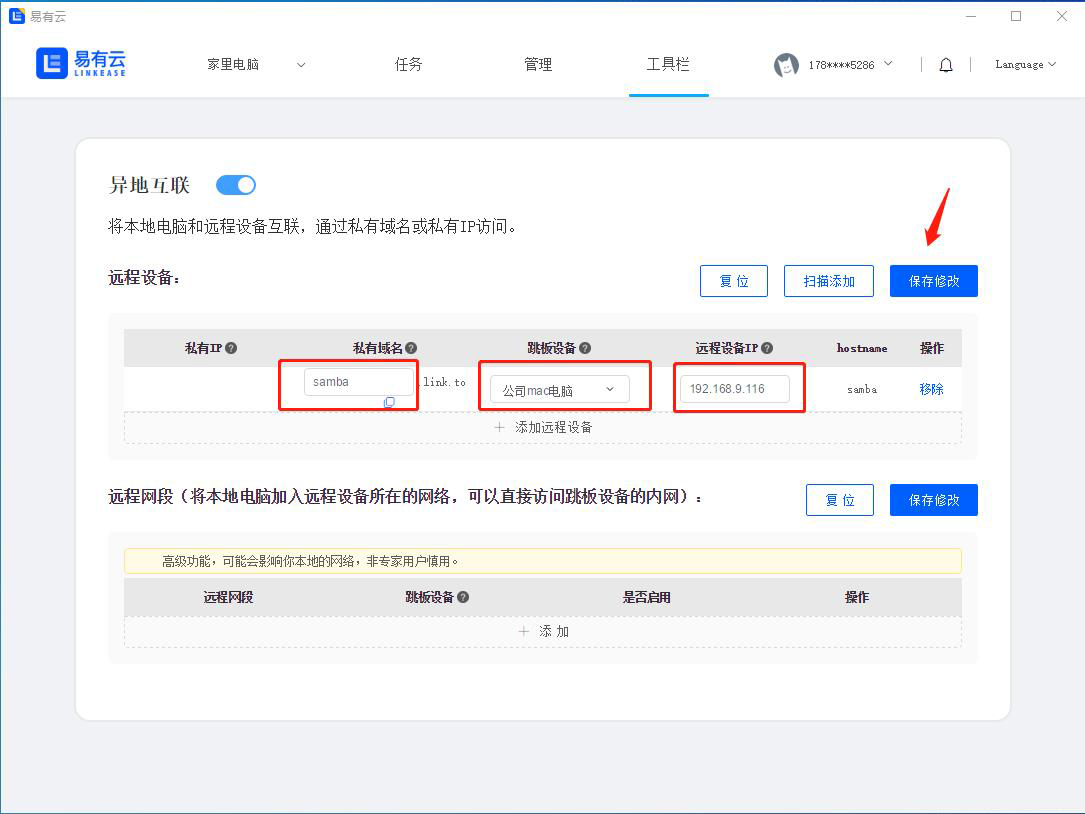
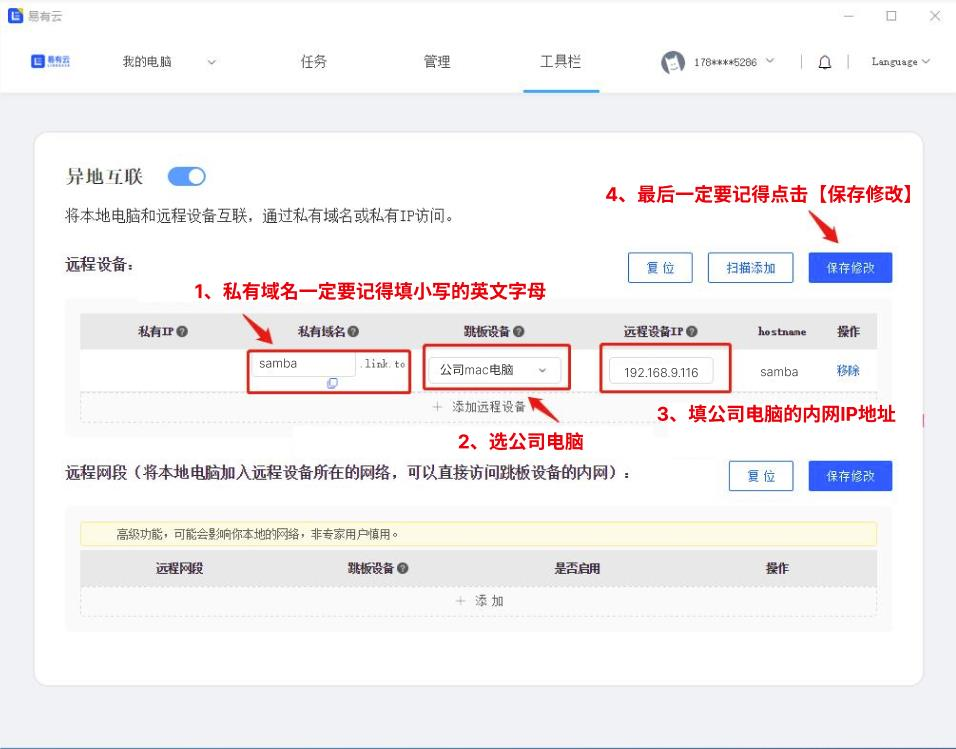
commit all

diff --git a/docs/zh/guide/linkease/tips/mount.md b/docs/zh/guide/linkease/tips/mount.md
@@ -8,44 +8,46 @@
 我们来看看具体是怎么实现的吧！  
 
 ### 第一步：公司电脑挂载的硬盘开启文件共享
-- 在硬盘目录下，选中你想要共享的文件，点击右键 —— 设置 —— 共享
+- 在硬盘目录下，选中你想要共享的文件，点击右键 —— 设置 —— 共享。
 
 ![image](./image/mount/11.jpg)
 
 ### 第二步：安装易有云
--  安装易有云电脑客户端，公司电脑要[开启网盘](/zh/guide/linkease/install/device/windows.md)，并且易有云是运行的状态
-- 家里电脑和公司电脑易有云客户端要登录同一易有云账号
+-  安装易有云电脑客户端，公司电脑要[开启网盘](/zh/guide/linkease/install/device/windows.md)，并且易有云是运行的状态；
+- 家里电脑和公司电脑易有云客户端要登录同一易有云账号。
 
 ### 第三步：开启异地互联
-- 打开家里电脑易有云客户端，开启[异地互联](/zh/guide/linkease/function/remote_connects.md)
-- 点击【添加远程设备】
+- 打开家里电脑易有云客户端，开启[异地互联](/zh/guide/linkease/function/remote_connects.md)；
+- 点击【添加远程设备】。
 
 ![image](./image/mount/21.jpg)
 
-- 私有域名：可以自己随意填（最好填英文名）
-- 跳板设备：选公司电脑
-- 远程设备IP：填公司电脑（被控电脑）的内网IP
-- 点击【保存修改】
+- 私有域名：一定要填小写的英文字母；
+- 跳板设备：选公司电脑；
+- 远程设备IP：填公司电脑的内网IP地址；
+- 记得点击【保存修改】。
 
 ![image](./image/mount/6.jpg)
 
-- 易有云会自动帮你生成一个【私有IP】
+- 易有云会自动帮你生成一个【私有IP】。
 
 ![image](./image/mount/7.jpg)
 
 ### 第四步：复制【私有IP】在你家里电脑上打开
-- 只需要复制这个【私有IP】在你家里电脑的资料管理器反斜杠\\加上【私有IP】打开
-- 就可以在家里远程访问你公司硬盘里开启文件共享的文件了
+- 只需要复制这个【私有IP】在你家里电脑的资料管理器反斜杠\\加上【私有IP】打开；
+- 就可以在家里远程访问你公司硬盘里开启文件共享的文件了。
+
+![image](./image/mount/12.jpg)
 
 ![image](./image/mount/8.jpg)
 
 ### 结尾
 
-- 如果你是一个专业用户，也可以用远程网段来方便远程更多的设备
+- 如果你是一个专业用户，也可以用远程网段来方便远程更多的设备。
 
 ![image](./image/mount/9.jpg)
 
-- 如果你使用的是我们的 iStoreOS，开启 Samba（文件共享） 更容易
+- 如果你使用的是我们的 iStoreOS，开启 Samba（文件共享） 更容易。
 
 ![image](./image/mount/10.jpg)
 
